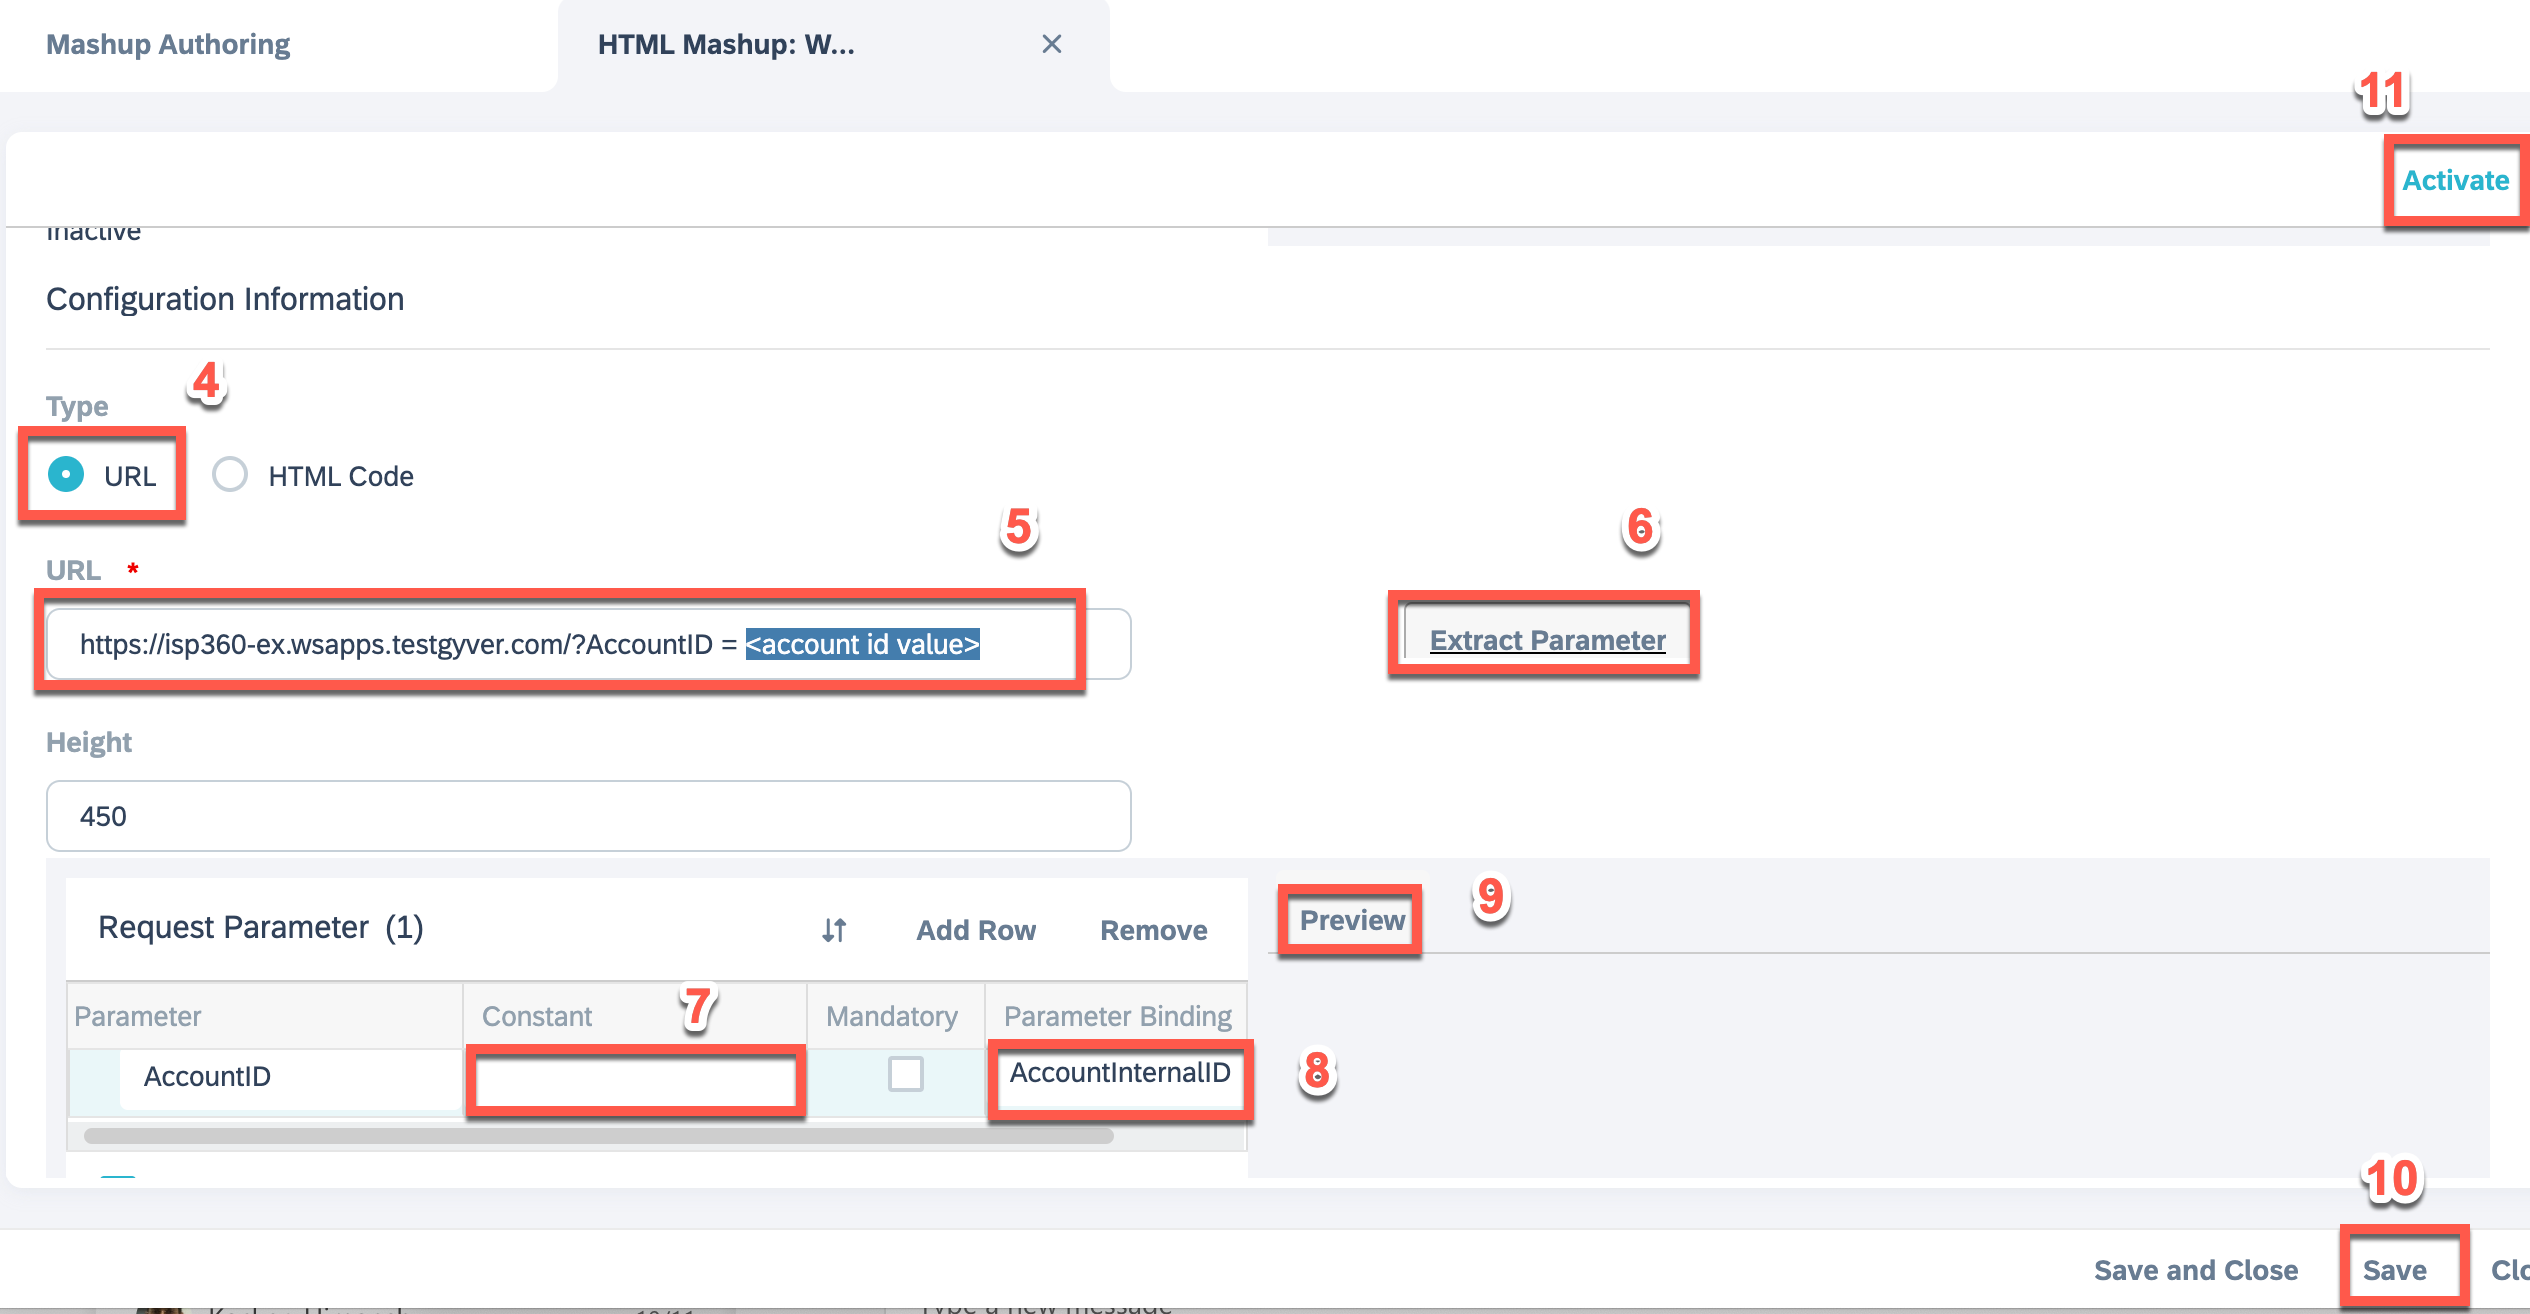
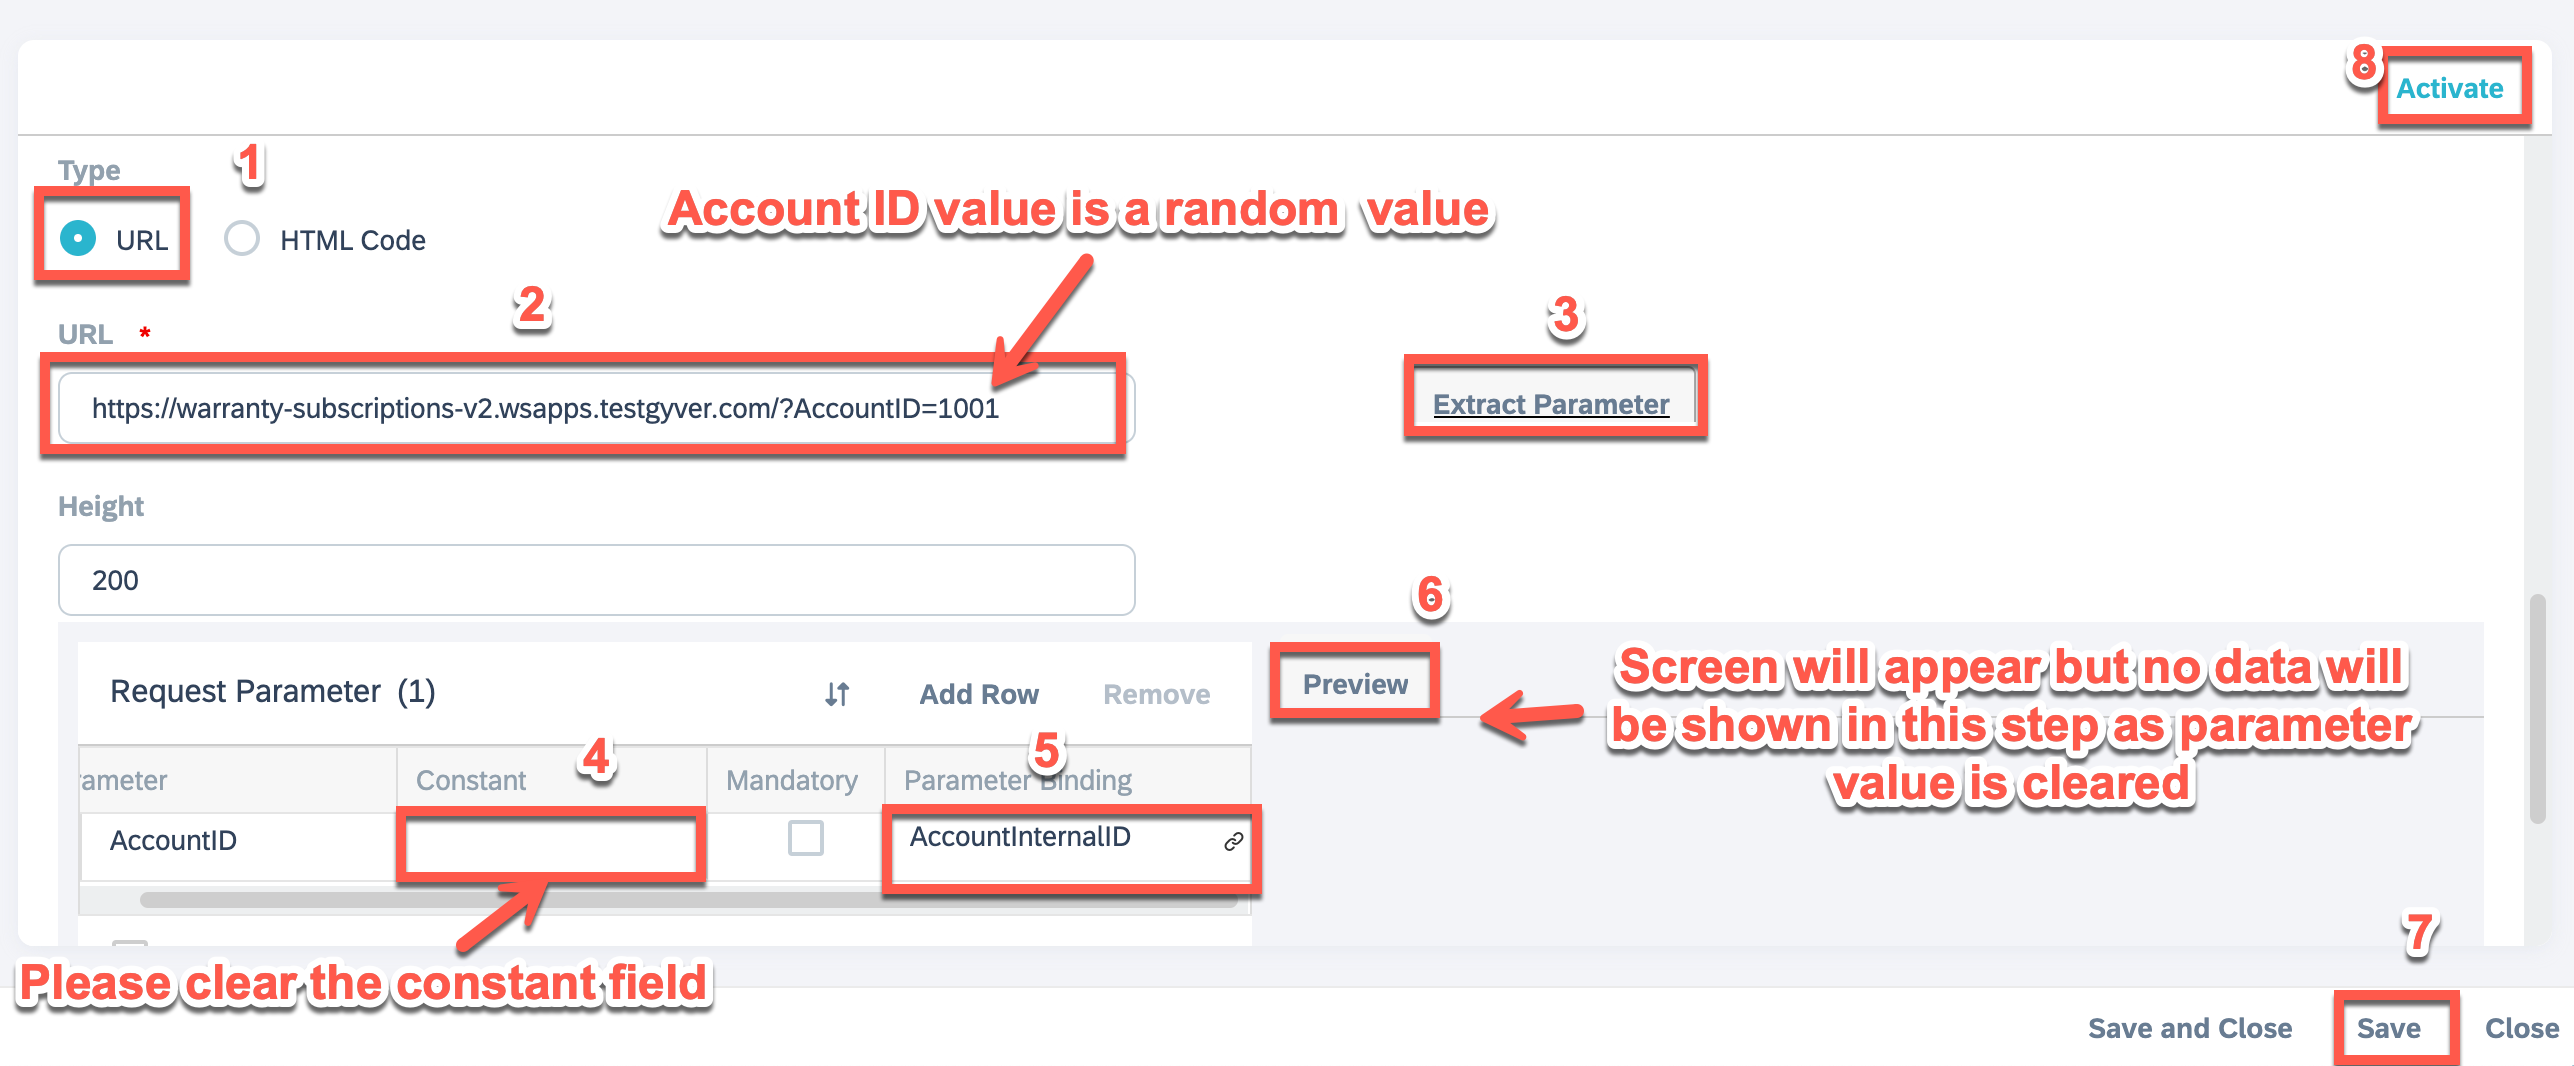
Add mashup steps enhanced

diff --git a/exercises/ex3/README.md b/exercises/ex3/README.md
@@ -11,15 +11,25 @@ In this exercise, we will embed the webapp that was created in the previous step
 In this section we will create a mashup object using the webapp url that we have created in the excecise 2.  
 
 1. Login to the SAP Sales Cloud and navigate to the Mashup Authoring screen
-  - Create an HTML mashup as shown below:
+  - In the left hand side navigation, expand `Administrator` 
+  - Select `Mashup Authoring`
+  - Once the mashup list screen opens, click `New` ans then `HTML mashup`
  <br>![](/exercises/ex3/images/03_01_01_CreateMashup.png)
 
 2. Configure the mashup
-  - Select `With port binding` and Port Binding to `Additional Account Information`
+  - Select `With port binding` and 
+  - Open Port Binding seletcion dialog and search and select `Additional Account Information`
   - Give the mashup some name like `Warranties` 
-  - Scroll down and configure url and parameters binding as in the next diagram
-  - Test using `Preview` 
+
  <br>![](/exercises/ex3/images/03_01_02_CreateMashup.png)
+
+3. Scroll down and configure url and parameters binding 
+  - Select Type as `URL`
+  - Give full (AppGyver) application url that you created in the execise-2 along with some parameter value (parameter value could be random)
+  - Click `Extract Parameter` button to create parameter (parameter can also be created/deleted manually)
+  - In the Parameter Binding select `AccountInternalId`
+  - Test using `Preview` but since no parameter was passed, no data will be shown. But the application frame should show up.
+  - Save & Activate
  <br>![](/exercises/ex3/images/03_01_03_CreateMashup.png)
 
 ## Exercise 3.2 Configure Account screen to embed the mashup
